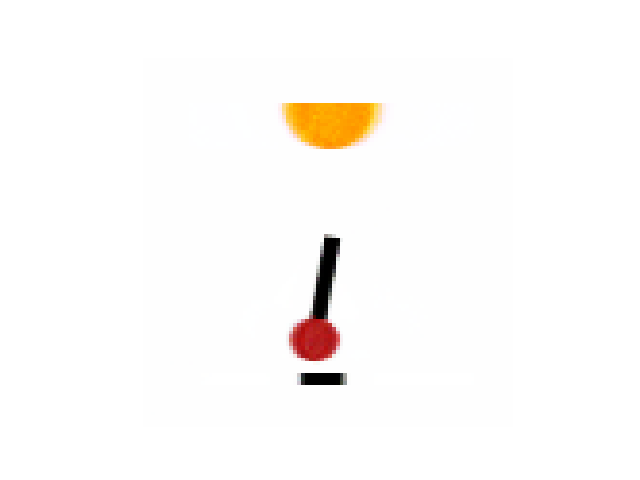
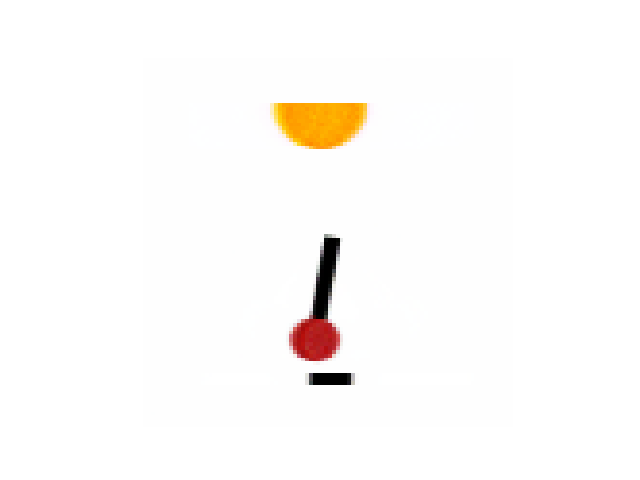
do-intervention samples

diff --git a/main_exo.py b/main_exo.py
@@ -164,7 +164,7 @@ def train(dataloader, model, config, optimizer, device):
     return logs, B, xhat1
 #%%
 def main():
-    config = vars(get_args(debug=False)) # default configuration
+    config = vars(get_args(debug=True)) # default configuration
     config["cuda"] = torch.cuda.is_available()
     device = torch.device('cuda:0') if torch.cuda.is_available() else torch.device('cpu')
     wandb.config.update(config)
@@ -274,40 +274,69 @@ def main():
     artifact.add_file('./assets/model.pth')
     wandb.log_artifact(artifact)
     
-    # """model load"""
-    # artifact = wandb.use_artifact('anseunghwan/(causal)VAE/model:v623', type='model')
-    # model_dir = artifact.download()
-    # model = VAE(config, device)
-    # model.load_state_dict(torch.load(model_dir + '/model.pth'))
+    """model load"""
+    artifact = wandb.use_artifact('anseunghwan/(causal)VAE/model:v16', type='model')
+    model_dir = artifact.download()
+    model = VAE(config, device)
+    model.load_state_dict(torch.load(model_dir + '/model.pth'))
     
-    # B_est = (model.W * model.ReLU_Y).cpu().detach().numpy()
-    # B_est[np.abs(B_est) < config["w_threshold"]] = 0.
+    B_est = (model.W * model.ReLU_Y).cpu().detach().numpy()
+    B_est[np.abs(B_est) < 0.01] = 0.
     
-    # test_imgs = os.listdir('./utils/causal_data/pendulum/test')
-    # test_x = []
-    # for i in tqdm.tqdm(range(len(test_imgs)), desc="test data loading"):
-    #     test_x.append(np.array(Image.open("./utils/causal_data/pendulum/test/{}".format(test_imgs[i])))[:, :, :3])
-    # test_x = (np.array(test_x).astype(float) - 127.5) / 127.5
-    # test_x = torch.Tensor(test_x) 
+    # test dataset
+    test_imgs = os.listdir('./utils/causal_data/pendulum/test')
+    test_x = []
+    for i in tqdm.tqdm(range(len(test_imgs)), desc="test data loading"):
+        test_x.append(np.array(Image.open("./utils/causal_data/pendulum/test/{}".format(test_imgs[i])))[:, :, :3])
+    test_x = (np.array(test_x).astype(float) - 127.5) / 127.5
+    test_x = torch.Tensor(test_x) 
     
-    # """intervention"""
-    # exog_mean, exog_logvar, latent, B, xhat = model(test_x[[0]])
-    # plt.imshow((xhat[0].cpu().detach().numpy() + 1) / 2)
-    # plt.axis('off')
-    # plt.savefig('./assets/original.png')
-    # plt.close()
+    """intervention"""
+    exog_mean, exog_logvar, latent, B, xhat1, xhat2 = model(test_x[[1]])
+    plt.imshow((xhat1[0].cpu().detach().numpy() + 1) / 2)
+    plt.axis('off')
+    plt.savefig('./assets/original.png')
+    plt.close()
     
-    # z = latent.detach()
-    # epsilon = exog_mean + torch.exp(exog_logvar / 2) * torch.randn(exog_mean.shape).to(device)
-    # do = 0
-    # do_value = 0
-    # for j in range(config["latent_dim"]):
-    #     if j == do:
-    #         z[:, [j]] = do_value
-    #     else:
-    #         if j == 0:  # root node
-    #             z[:, [j]] = epsilon[:, [j]]
-    #         z[:, [j]] = torch.matmul(z[:, :j], torch.tensor(B_est)[:j, [j]]) + epsilon[:, [j]]
+    """reconstruction with intervention"""
+    z = latent.detach().clone()
+    epsilon = exog_mean + torch.exp(exog_logvar / 2) * torch.randn(exog_mean.shape).to(device)
+    do_index = 1
+    do_value = 5
+    for j in range(config["latent_dim"]):
+        if j == do_index:
+            z[:, [j]] = do_value
+        else:
+            if j == 0:  # root node
+                z[:, [j]] = epsilon[:, [j]]
+            z[:, [j]] = torch.matmul(z[:, :j], torch.tensor(B_est)[:j, [j]].to(device)) + epsilon[:, [j]]
+    
+    do_xhat = model.decoder(z).view(96, 96, 3)
+    plt.imshow((do_xhat.cpu().detach().numpy() + 1) / 2)
+    plt.axis('off')
+    plt.savefig('./assets/do_recon.png')
+    plt.close()
+    
+    # """reconstruction with intervention"""
+    # fig, axs = plt.subplots(config["latent_dim"], 11, figsize=(10, 5))
+    # for do_index in range(config["latent_dim"]):
+    #     z = latent.detach().clone()
+    #     epsilon = exog_mean + torch.exp(exog_logvar / 2) * torch.randn(exog_mean.shape).to(device)
+        
+    #     for i, do_value in enumerate(np.linspace(-20, 20, 11)):
+    #         for j in range(config["latent_dim"]):
+    #             if j == do_index:
+    #                 z[:, [j]] = do_value
+    #             else:
+    #                 if j == 0:  # root node
+    #                     z[:, [j]] = epsilon[:, [j]]
+    #                 z[:, [j]] = torch.matmul(z[:, :j], torch.tensor(B_est)[:j, [j]].to(device)) + epsilon[:, [j]]
+        
+    #         do_xhat = model.decoder(z).view(96, 96, 3)
+    #         axs[do_index, i].imshow((do_xhat.cpu().detach().numpy() + 1) / 2)
+    #         axs[do_index, i].axis('off')
+    #     fig.savefig('./assets/do_recon.png')
+    #     plt.close()
     
     wandb.run.finish()
 #%%
